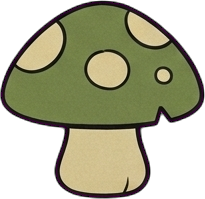
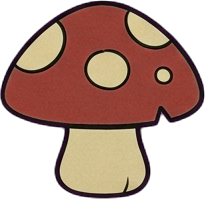
Pintar de rojo el sombrero de la seta para que se vea sobre las colinas
El pipeline cambia el tono del verde de los obstáculos de RECOLOR_GREEN
manteniendo luminosidad y textura; la imagen original no se toca.

diff --git a/CLAUDE.md b/CLAUDE.md
@@ -72,7 +72,8 @@ El script:
 3. **Personajes**: escala para que el frame de carrera mida 220 px, frames del mismo tamaño en una tira
    horizontal, centrados en X y **con los pies abajo** (2 px de margen).
 4. **Obstáculos**: un PNG recortado por obstáculo (`obstacle_<nombre>.png`) a resolución original;
-   el tamaño en pantalla se fija en `config.ts`.
+   el tamaño en pantalla se fija en `config.ts`. Los de `RECOLOR_GREEN` cambian su verde de tono para que no
+   se confundan con las colinas (la seta sale con el sombrero rojo).
 5. **Suelo y cielo**: fundido del final con el principio (alpha premultiplicado) para repetirse sin costura.
    El suelo se escala a 150 px de tierra bajo la superficie y se detecta `surfaceY` (fila del contorno negro).
 6. **Colinas** (`HILLS` en el script): chroma key, fundido de bordes, se recortan las filas vacías de arriba y se
